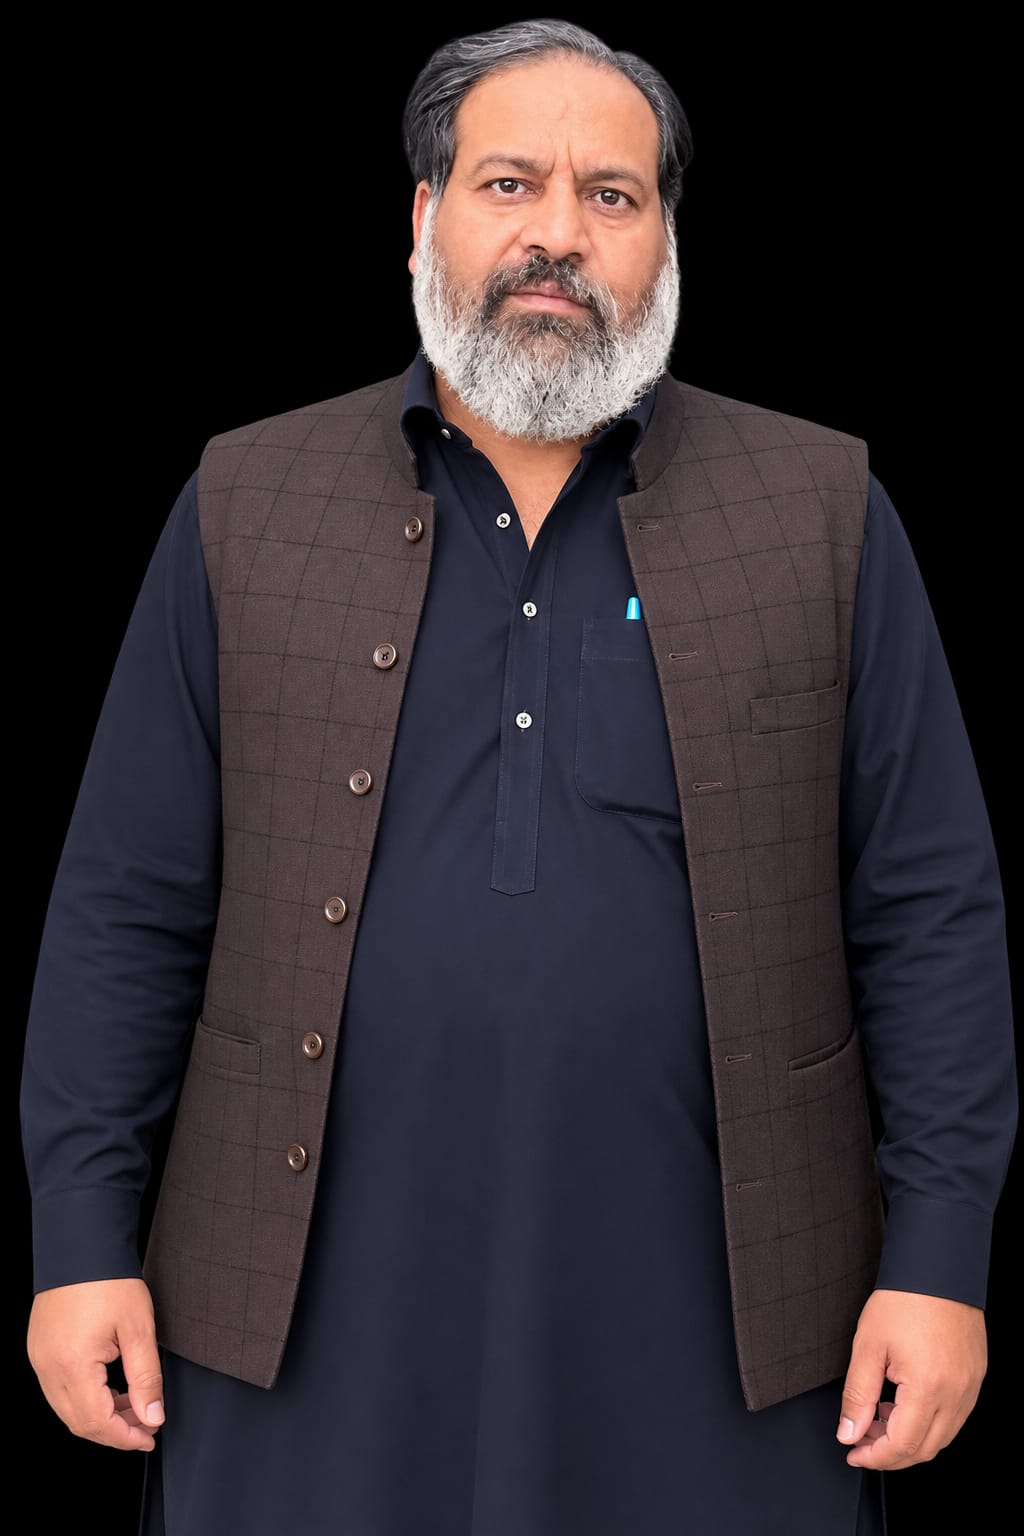
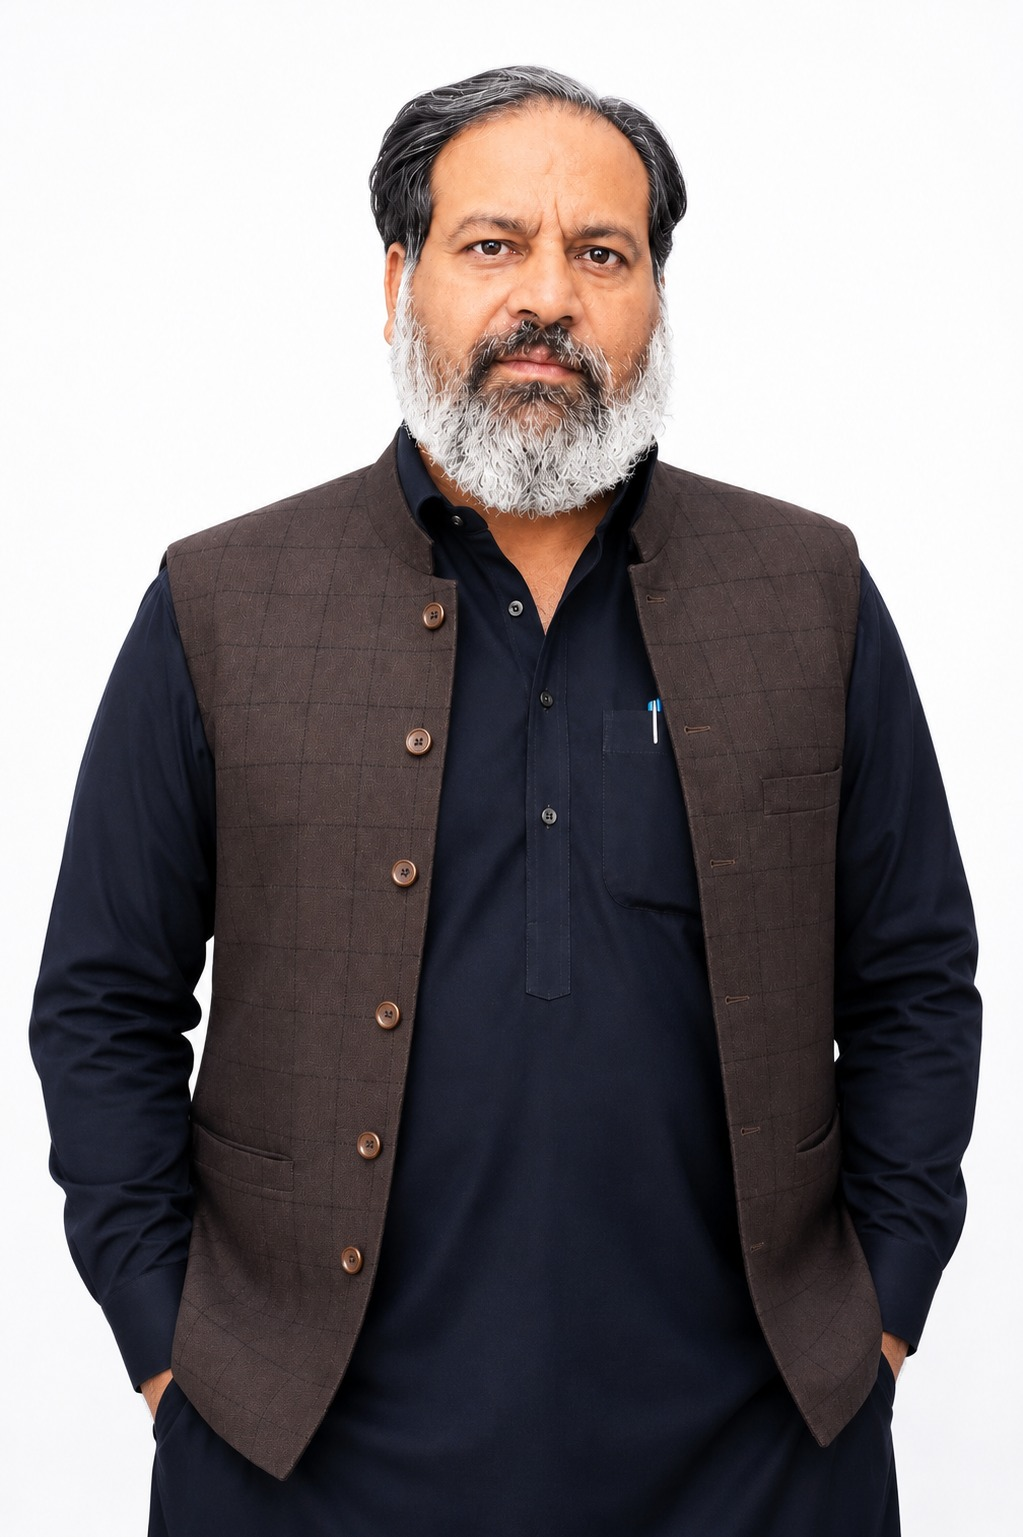
8/9/26

diff --git a/src/components/Footer.tsx b/src/components/Footer.tsx
@@ -6,15 +6,15 @@ import {
   FaFacebookF,
   FaLinkedinIn,
   FaInstagram,
-  FaYoutube,
+  FaWhatsapp,
 } from "react-icons/fa";
 import Logo from "./Logo";
 
 const socials = [
-  { icon: <FaFacebookF size={13} />, label: "Facebook", href: "https://www.facebook.com/netrootstech" },
-  { icon: <FaLinkedinIn size={13} />, label: "LinkedIn", href: "https://www.linkedin.com/company/netroots-technologies" },
-  { icon: <FaInstagram size={13} />, label: "Instagram", href: "https://www.instagram.com/netroots_technologies" },
-  { icon: <FaYoutube size={13} />, label: "YouTube", href: "https://www.youtube.com/@netrootstechnologies7406" },
+  { icon: <FaFacebookF size={13} />, label: "Facebook", href: "https://www.facebook.com/profile.php?id=61594209324185" },
+  { icon: <FaLinkedinIn size={13} />, label: "LinkedIn", href: "https://www.linkedin.com/in/tayyba-tahir-836972247/" },
+  { icon: <FaInstagram size={13} />, label: "Instagram", href: "https://www.instagram.com/codqortechnologiesofficial/" },
+  { icon: <FaWhatsapp size={13} />, label: "WhatsApp", href: "https://wa.me/923224544934" },
 ];
 
 const serviceLinks = [
@@ -85,14 +85,14 @@ export default function Footer() {
 
             <a
               href="mailto:codeqor2@gmail.com"
-              className="mt-6 inline-flex items-center gap-2.5 rounded-lg border border-white/[0.12] bg-white/[0.05] px-4 py-3 transition-all duration-300 hover:border-[#43B2F2]/50 hover:bg-[#43B2F2]/10"
+              className="mt-6 inline-flex items-center gap-2.5 transition-opacity duration-300 hover:opacity-90"
             >
               <span className="flex h-9 w-9 shrink-0 items-center justify-center rounded-lg bg-gradient-to-br from-primary-600 to-accent-600 text-white">
                 <FiMail size={15} />
               </span>
               <span className="leading-tight">
                 <span className="block text-[10px] font-semibold uppercase tracking-widest text-white/50">Email us</span>
-                <span className="mt-0.5 block text-[13px] font-semibold text-white">codeqor2@gmail.com</span>
+                <span className="mt-0.5 block text-[11px] font-semibold text-white">codeqor2@gmail.com</span>
               </span>
             </a>
           </div>

diff --git a/src/app/privacy/page.tsx b/src/app/privacy/page.tsx
@@ -113,8 +113,8 @@ export default function PrivacyPage() {
             <h2 className="text-xl font-bold text-zinc-900">10. Contact Us</h2>
             <p className="mt-3 text-sm leading-relaxed text-zinc-600">
               If you have any questions about this Privacy Policy, please contact us at{" "}
-              <span className="font-semibold text-primary-600">business@netrootstech.com</span>{" "}
-              or call <span className="font-semibold text-primary-600">+1 (302) 300-1742</span>.
+              <a href="mailto:codeqor2@gmail.com" className="font-semibold text-primary-600 hover:underline">codeqor2@gmail.com</a>{" "}
+              or call <a href="tel:03224544934" className="font-semibold text-primary-600 hover:underline">03224544934</a>.
             </p>
           </div>
         </div>

diff --git a/src/app/terms/page.tsx b/src/app/terms/page.tsx
@@ -101,8 +101,8 @@ export default function TermsPage() {
             <h2 className="text-xl font-bold text-zinc-900">9. Contact Us</h2>
             <p className="mt-3 text-sm leading-relaxed text-zinc-600">
               If you have questions about these Terms & Conditions, please contact us at{" "}
-              <span className="font-semibold text-primary-600">business@netrootstech.com</span>{" "}
-              or call <span className="font-semibold text-primary-600">+1 (302) 300-1742</span>.
+              <a href="mailto:codeqor2@gmail.com" className="font-semibold text-primary-600 hover:underline">codeqor2@gmail.com</a>{" "}
+              or call <a href="tel:03224544934" className="font-semibold text-primary-600 hover:underline">03224544934</a>.
             </p>
           </div>
         </div>

diff --git a/src/components/about/AboutTeam.tsx b/src/components/about/AboutTeam.tsx
@@ -29,7 +29,7 @@ const team = [
     name: "Umer Waseem",
     role: "Full Stack Developer",
     bio: "Versatile engineer building complete web solutions from frontend to backend.",
-    image: "/images/umer-waseem.jpg",
+    image: "/images/umer-waseem.png",
   },
   {
     name: "Ayesha Tahir",

diff --git a/src/components/Contact.tsx b/src/components/Contact.tsx
@@ -12,8 +12,8 @@ const cards = [
   {
     icon: <FiPhone size={24} />,
     title: "Call Us",
-    content: "+1 (302) 300-1742",
-    href: "tel:+13023001742",
+    content: "+92 22 4544934",
+    href: "tel:+92224544934",
   },
   {
     icon: <FiClock size={24} />,
